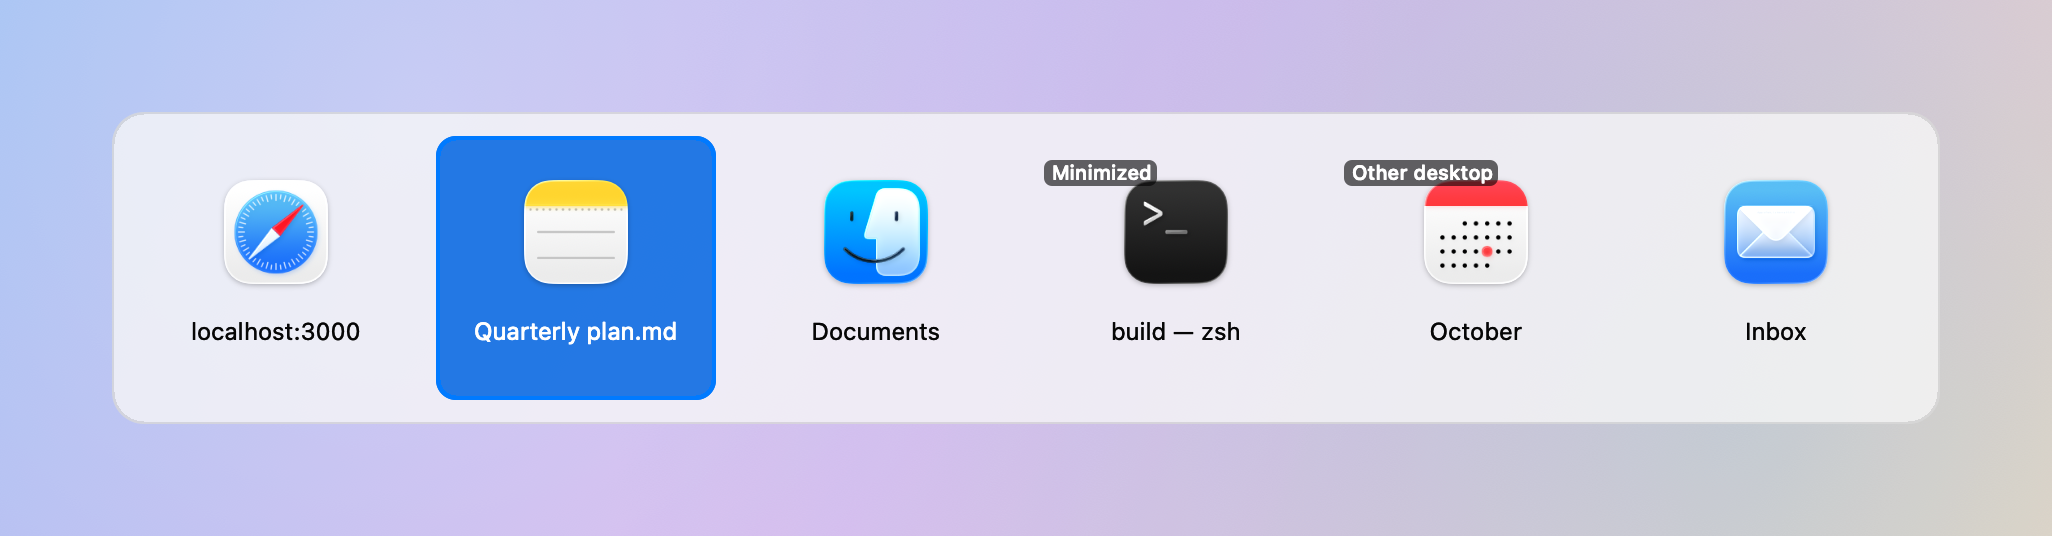
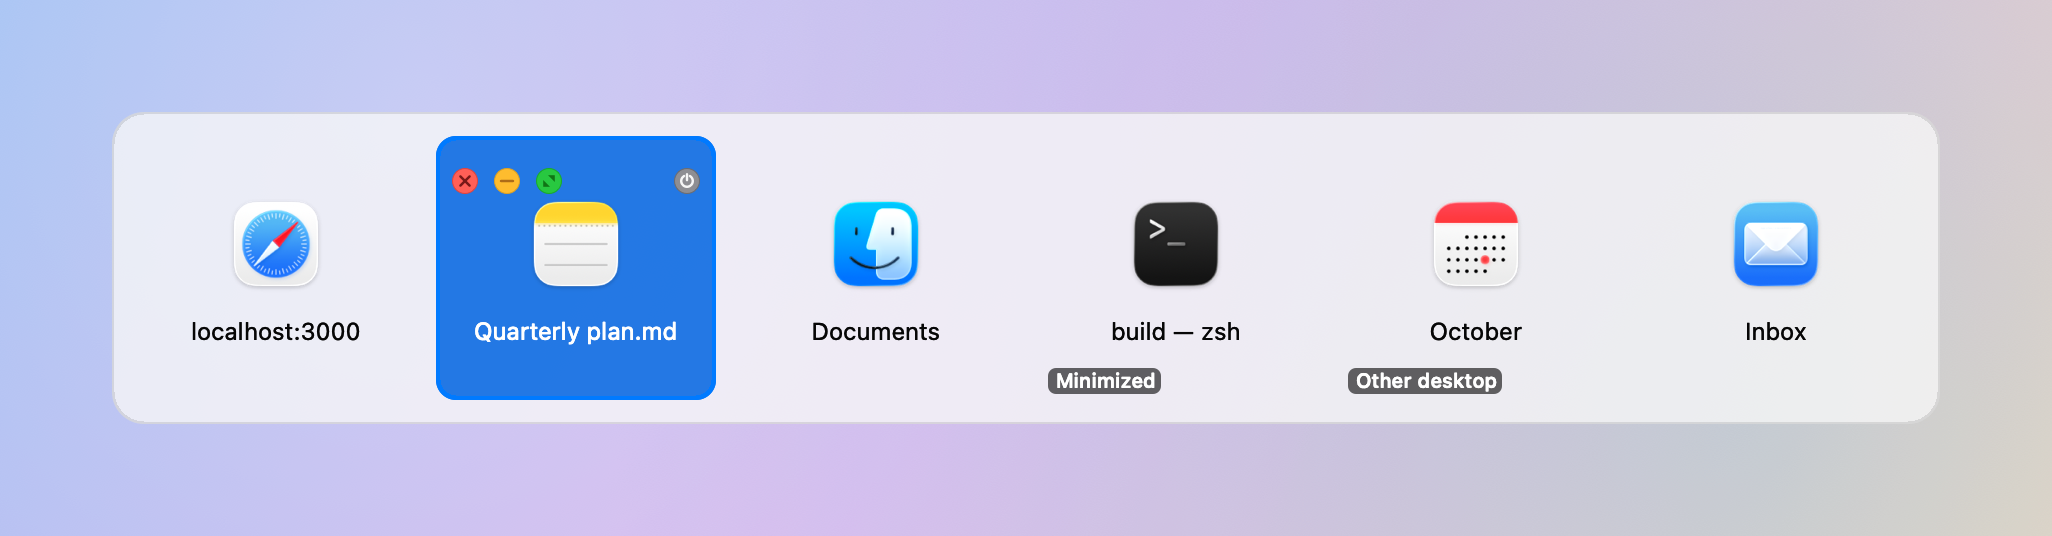
Hover controls look like native macOS traffic lights
Close, minimize and full screen are red, yellow and green circles at the
top-left of the tile, with glyphs on hover like a real window. Quit app
is a separate gray power button at the top-right. The Minimized and
Other desktop tags move to the bottom-left so they no longer cover the
controls. README images re-rendered.

diff --git a/Sources/Tabby/SwitcherItemViews.swift b/Sources/Tabby/SwitcherItemViews.swift
@@ -12,9 +12,12 @@ class SwitcherItemView: NSView {
     var onHover: (() -> Void)?
     var onClick: (() -> Void)?
     var onAction: ((ItemAction) -> Void)?
-    /// Row layouts centre the controls on the right edge; tiles put them in the top-right corner.
+    /// Row layouts centre the controls on the right edge; tiles put them over the picture.
     var controlsAreCompact: Bool { false }
-    private var controls: ItemControlsView?
+    /// Tiles: traffic lights sit at this area's top-left, quit at its top-right.
+    var controlsAnchor: NSRect { bounds }
+    private var lights: ControlClusterView?
+    private var quit: ControlClusterView?
 
     init(frame: NSRect, windowID: UInt32) {
         self.windowID = windowID
@@ -37,18 +40,30 @@ class SwitcherItemView: NSView {
     func setThumbnail(_ image: CGImage?) {}
     func restyleText() {}
 
-    func setControlsVisible(_ visible: Bool) {
-        guard visible else { controls?.isHidden = true; return }
-        if controls == nil {
-            let view = ItemControlsView { [weak self] in self?.onAction?($0) }
-            controls = view
-            addSubview(view)
+    /// `forceGlyphs` draws the hover glyphs without a pointer (README renders).
+    func setControlsVisible(_ visible: Bool, forceGlyphs: Bool = false) {
+        guard visible else { lights?.isHidden = true; quit?.isHidden = true; return }
+        if lights == nil {
+            let press: (ItemAction) -> Void = { [weak self] in self?.onAction?($0) }
+            let l = ControlClusterView(specs: ControlClusterView.trafficLights, glyphsOnHoverOnly: true, onAction: press)
+            let q = ControlClusterView(specs: [ControlClusterView.quitSpec], glyphsOnHoverOnly: false, onAction: press)
+            lights = l; quit = q
+            addSubview(l); addSubview(q)
         }
-        guard let controls else { return }
-        let size = controls.fittingSize
-        let y = controlsAreCompact ? (bounds.height - size.height) / 2 : bounds.height - size.height - 6
-        controls.frame = NSRect(x: bounds.width - size.width - 6, y: y, width: size.width, height: size.height)
-        controls.isHidden = false
+        guard let lights, let quit else { return }
+        let ls = lights.frame.size, qs = quit.frame.size
+        if controlsAreCompact {
+            let x = bounds.width - 8 - qs.width
+            quit.setFrameOrigin(NSPoint(x: x, y: (bounds.height - qs.height) / 2))
+            lights.setFrameOrigin(NSPoint(x: x - 10 - ls.width, y: (bounds.height - ls.height) / 2))
+        } else {
+            let a = controlsAnchor
+            lights.setFrameOrigin(NSPoint(x: a.minX + 8, y: a.maxY - 8 - ls.height))
+            quit.setFrameOrigin(NSPoint(x: a.maxX - 8 - qs.width, y: a.maxY - 8 - qs.height))
+        }
+        lights.setHovering(forceGlyphs)
+        lights.isHidden = false
+        quit.isHidden = false
     }
 
     // MARK: Mouse
@@ -118,6 +133,9 @@ final class TileItemView: SwitcherItemView {
     private let iconView = NSImageView()
     private let markerLabel: NSTextField?
     private let showsThumbnails: Bool
+    private var pictureFrame = NSRect.zero
+
+    override var controlsAnchor: NSRect { pictureFrame }
 
     init(frame: NSRect, window: WindowInfo, layout: Layout, thumbnailSize: ThumbnailSize, showWindowTitles: Bool,
          marker: String?, icon: NSImage?, thumbnail: CGImage?) {
@@ -139,6 +157,7 @@ final class TileItemView: SwitcherItemView {
             picture = NSRect(x: 0, y: labelH + 10, width: frame.width, height: frame.height - labelH - 18)
         }
 
+        pictureFrame = picture
         thumbView.frame = picture
         thumbView.imageScaling = .scaleProportionallyUpOrDown
         thumbView.wantsLayer = true
@@ -147,8 +166,8 @@ final class TileItemView: SwitcherItemView {
         addSubview(thumbView)
 
         // The app icon is the placeholder until a thumbnail lands, and the picture in App Icons.
-        let side = layout == .thumbnails ? min(64, picture.height * 0.6) : min(64, picture.height)
-        iconView.frame = NSRect(x: picture.midX - side / 2, y: picture.midY - side / 2, width: side, height: side)
+        let side = layout == .thumbnails ? min(64, picture.height * 0.6) : min(52, picture.height)   // leaves room for the hover controls above
+        iconView.frame = NSRect(x: picture.midX - side / 2, y: picture.midY - side / 2 - (layout == .thumbnails ? 0 : 6), width: side, height: side)
         iconView.image = icon
         iconView.imageScaling = .scaleProportionallyUpOrDown
         addSubview(iconView)
@@ -160,7 +179,7 @@ final class TileItemView: SwitcherItemView {
             markerLabel.layer?.backgroundColor = NSColor.black.withAlphaComponent(0.6).cgColor
             markerLabel.layer?.cornerRadius = 4
             let s = markerLabel.intrinsicContentSize
-            markerLabel.frame = NSRect(x: picture.minX + 4, y: picture.maxY - s.height - 4, width: s.width + 6, height: s.height)
+            markerLabel.frame = NSRect(x: layout == .thumbnails ? picture.minX + 4 : 6, y: layout == .thumbnails ? picture.minY + 4 : 3, width: s.width + 6, height: s.height)
             markerLabel.alignment = .center
             addSubview(markerLabel)
         }
@@ -192,59 +211,146 @@ final class TileItemView: SwitcherItemView {
     override func restyleText() { label.textColor = primaryTextColor }
 }
 
-/// Small row of window controls shown over the hovered item: close, minimize, full screen, quit app.
-final class ItemControlsView: NSView {
-    private static let buttons: [(ItemAction, String, String)] = [
-        (.close, "xmark.circle.fill", "Close window"),
-        (.minimize, "minus.circle.fill", "Minimize or restore window"),
-        (.toggleFullScreen, "arrow.up.left.and.arrow.down.right.circle.fill", "Toggle full screen"),
-        (.quitApp, "power.circle.fill", "Quit app"),
-    ]
-    private static let side: CGFloat = 20
-    private static let pad: CGFloat = 4
+/// A row of round window-control buttons drawn like the macOS title-bar "traffic lights".
+/// Glyphs show while the pointer is over the group (or always, for a single neutral button).
+/// Works on the first click inside the non-activating panel.
+final class ControlClusterView: NSView, NSViewToolTipOwner {
+    enum Glyph { case close, minimize, fullScreen, power }
+    struct Spec {
+        let action: ItemAction
+        let fill: NSColor
+        let border: NSColor
+        let glyph: Glyph
+        let glyphColor: NSColor
+        let tip: String
+    }
 
-    init(onAction: @escaping (ItemAction) -> Void) {
-        let n = CGFloat(Self.buttons.count)
-        let size = NSSize(width: n * Self.side + (n + 1) * Self.pad, height: Self.side + 2 * Self.pad)
-        super.init(frame: NSRect(origin: .zero, size: size))
-        wantsLayer = true
-        layer?.backgroundColor = NSColor.black.withAlphaComponent(0.6).cgColor
-        layer?.cornerRadius = size.height / 2
-        for (i, spec) in Self.buttons.enumerated() {
-            let button = ControlButton(action: spec.0, symbol: spec.1, tip: spec.2, onPress: onAction)
-            button.frame = NSRect(x: Self.pad + CGFloat(i) * (Self.side + Self.pad), y: Self.pad, width: Self.side, height: Self.side)
-            addSubview(button)
+    static let diameter: CGFloat = 13
+    static let spacing: CGFloat = 8
+
+    static let trafficLights: [Spec] = [
+        Spec(action: .close, fill: rgb(0xFF5F57), border: rgb(0xE0443E), glyph: .close,
+             glyphColor: rgb(0x4C0102, 0.75), tip: "Close window"),
+        Spec(action: .minimize, fill: rgb(0xFEBC2E), border: rgb(0xDEA123), glyph: .minimize,
+             glyphColor: rgb(0x985712, 0.8), tip: "Minimize or restore window"),
+        Spec(action: .toggleFullScreen, fill: rgb(0x28C840), border: rgb(0x1AAB29), glyph: .fullScreen,
+             glyphColor: rgb(0x0A5F0A, 0.8), tip: "Toggle full screen"),
+    ]
+    /// No native equivalent: neutral gray, kept apart from the traffic lights.
+    static let quitSpec = Spec(action: .quitApp, fill: rgb(0x8E8E93), border: rgb(0x6C6C70), glyph: .power,
+                               glyphColor: NSColor.white.withAlphaComponent(0.92), tip: "Quit app")
+
+    private static func rgb(_ hex: UInt32, _ alpha: CGFloat = 1) -> NSColor {
+        NSColor(srgbRed: CGFloat((hex >> 16) & 0xFF) / 255, green: CGFloat((hex >> 8) & 0xFF) / 255,
+                blue: CGFloat(hex & 0xFF) / 255, alpha: alpha)
+    }
+
+    private let specs: [Spec]
+    private let glyphsOnHoverOnly: Bool
+    private let onAction: (ItemAction) -> Void
+    private var hovering = false
+    private var pressed: Int?
+
+    init(specs: [Spec], glyphsOnHoverOnly: Bool, onAction: @escaping (ItemAction) -> Void) {
+        self.specs = specs
+        self.glyphsOnHoverOnly = glyphsOnHoverOnly
+        self.onAction = onAction
+        let n = CGFloat(specs.count)
+        super.init(frame: NSRect(x: 0, y: 0, width: n * Self.diameter + (n - 1) * Self.spacing, height: Self.diameter))
+        for i in specs.indices { addToolTip(circle(i), owner: self, userData: UnsafeMutableRawPointer(bitPattern: i + 1)) }
+        setAccessibilityElement(false)
+    }
+
+    required init?(coder: NSCoder) { fatalError("not used") }
+
+    private func circle(_ i: Int) -> NSRect {
+        NSRect(x: CGFloat(i) * (Self.diameter + Self.spacing), y: 0, width: Self.diameter, height: Self.diameter)
+    }
+
+    private func index(at point: NSPoint) -> Int? {
+        specs.indices.first { circle($0).insetBy(dx: -Self.spacing / 2, dy: -3).contains(point) }
+    }
+
+    func view(_ view: NSView, stringForToolTip tag: NSView.ToolTipTag, point: NSPoint, userData data: UnsafeMutableRawPointer?) -> String {
+        guard let raw = data.map({ Int(bitPattern: $0) }), raw >= 1, raw <= specs.count else { return "" }
+        return specs[raw - 1].tip
+    }
+
+    // MARK: Drawing
+
+    override func draw(_ dirtyRect: NSRect) {
+        for (i, spec) in specs.enumerated() {
+            let rect = circle(i)
+            let body = NSBezierPath(ovalIn: rect.insetBy(dx: 0.25, dy: 0.25))
+            (pressed == i ? spec.fill.blended(withFraction: 0.25, of: .black) ?? spec.fill : spec.fill).setFill()
+            body.fill()
+            spec.border.setStroke()
+            body.lineWidth = 0.5
+            body.stroke()
+            if hovering || !glyphsOnHoverOnly { drawGlyph(spec.glyph, in: rect, color: spec.glyphColor) }
         }
     }
 
-    required init?(coder: NSCoder) { fatalError("not used") }
-
-    override var fittingSize: NSSize { frame.size }
-}
-
-/// Borderless symbol button that works on the first click inside the non-activating panel.
-private final class ControlButton: NSButton {
-    private let onPress: (ItemAction) -> Void
-    private let itemAction: ItemAction
-
-    init(action: ItemAction, symbol: String, tip: String, onPress: @escaping (ItemAction) -> Void) {
-        itemAction = action
-        self.onPress = onPress
-        super.init(frame: .zero)
-        image = NSImage(systemSymbolName: symbol, accessibilityDescription: tip)
-        imagePosition = .imageOnly
-        imageScaling = .scaleProportionallyUpOrDown
-        isBordered = false
-        contentTintColor = .white
-        toolTip = tip
-        setAccessibilityLabel(tip)
-        target = self
-        self.action = #selector(pressed)
+    private func drawGlyph(_ glyph: Glyph, in rect: NSRect, color: NSColor) {
+        let c = NSPoint(x: rect.midX, y: rect.midY)
+        color.setStroke()
+        color.setFill()
+        let path = NSBezierPath()
+        path.lineWidth = 1.25
+        path.lineCapStyle = .round
+        switch glyph {
+        case .close:
+            let r: CGFloat = 2.3
+            path.move(to: NSPoint(x: c.x - r, y: c.y - r)); path.line(to: NSPoint(x: c.x + r, y: c.y + r))
+            path.move(to: NSPoint(x: c.x - r, y: c.y + r)); path.line(to: NSPoint(x: c.x + r, y: c.y - r))
+            path.stroke()
+        case .minimize:
+            path.move(to: NSPoint(x: c.x - 3, y: c.y)); path.line(to: NSPoint(x: c.x + 3, y: c.y))
+            path.stroke()
+        case .fullScreen:
+            // Two triangles pointing at opposite corners, as in macOS.
+            let t = NSBezierPath()
+            t.move(to: NSPoint(x: c.x + 2.9, y: c.y + 2.9)); t.line(to: NSPoint(x: c.x - 0.5, y: c.y + 2.9))
+            t.line(to: NSPoint(x: c.x + 2.9, y: c.y - 0.5)); t.close()
+            t.move(to: NSPoint(x: c.x - 2.9, y: c.y - 2.9)); t.line(to: NSPoint(x: c.x + 0.5, y: c.y - 2.9))
+            t.line(to: NSPoint(x: c.x - 2.9, y: c.y + 0.5)); t.close()
+            t.fill()
+        case .power:
+            path.lineWidth = 1.2
+            path.appendArc(withCenter: c, radius: 2.9, startAngle: 120, endAngle: 60, clockwise: false)
+            path.move(to: NSPoint(x: c.x, y: c.y + 0.4)); path.line(to: NSPoint(x: c.x, y: c.y + 3.4))
+            path.stroke()
+        }
     }
 
-    required init?(coder: NSCoder) { fatalError("not used") }
+    // MARK: Mouse
 
     override func acceptsFirstMouse(for event: NSEvent?) -> Bool { true }
 
-    @objc private func pressed() { onPress(itemAction) }
+    override func updateTrackingAreas() {
+        super.updateTrackingAreas()
+        trackingAreas.forEach(removeTrackingArea)
+        addTrackingArea(NSTrackingArea(rect: .zero, options: [.mouseEnteredAndExited, .activeAlways, .inVisibleRect],
+                                       owner: self, userInfo: nil))
+    }
+
+    func setHovering(_ on: Bool) { hovering = on; needsDisplay = true }
+
+    override func mouseEntered(with event: NSEvent) { hovering = true; needsDisplay = true }
+    override func mouseExited(with event: NSEvent) { hovering = false; needsDisplay = true }
+
+    override func mouseDown(with event: NSEvent) {
+        pressed = index(at: convert(event.locationInWindow, from: nil))
+        needsDisplay = true
+    }
+
+    override func mouseUp(with event: NSEvent) {
+        let hit = index(at: convert(event.locationInWindow, from: nil))
+        let was = pressed
+        pressed = nil
+        needsDisplay = true
+        if let hit, hit == was { onAction(specs[hit].action) }
+    }
+
+    override func viewDidHide() { hovering = false; pressed = nil }
 }

diff --git a/Sources/Tabby/DemoRenderer.swift b/Sources/Tabby/DemoRenderer.swift
@@ -73,11 +73,12 @@ enum DemoRenderer {
                 info.isMinimized = index == minimizedIndex
                 info.isOnOtherDesktop = index == otherDesktopIndex
                 let marker = info.isMinimized ? "Minimized" : (info.isOnOtherDesktop ? "Other desktop" : nil)
-                let thumb = layout == .thumbnails ? thumbnail(fake, size: ThumbnailSize.medium.box, dark: dark) : nil
+                let thumb = layout == .thumbnails ? thumbnail(fake, size: ThumbnailSize.medium.box, dark: dark, dots: index != selected) : nil
                 let view = TileItemView(frame: frame, window: info, layout: layout, thumbnailSize: .medium,
                                         showWindowTitles: true, marker: marker, icon: icon(fake.bundleID), thumbnail: thumb)
                 view.setSelected(index == selected)
                 panel.addSubview(view)
+                if index == selected { view.setControlsVisible(true, forceGlyphs: true) }
             }
 
             rep = NSBitmapImageRep(bitmapDataPlanes: nil, pixelsWide: Int(size.width * 2), pixelsHigh: Int(size.height * 2),
@@ -97,7 +98,7 @@ enum DemoRenderer {
     // MARK: Synthetic thumbnails
 
     /// A made-up window: title bar with traffic lights and a few coloured blocks. Rendered at 2x.
-    private static func thumbnail(_ fake: Fake, size: CGSize, dark: Bool) -> CGImage? {
+    private static func thumbnail(_ fake: Fake, size: CGSize, dark: Bool, dots: Bool = true) -> CGImage? {
         let scale: CGFloat = 2
         let w = Int(size.width * scale), h = Int(size.height * scale)
         guard let ctx = CGContext(data: nil, width: w, height: h, bitsPerComponent: 8, bytesPerRow: 0,
@@ -124,7 +125,8 @@ enum DemoRenderer {
         ctx.setFillColor(body); ctx.fill(CGRect(x: 0, y: 0, width: W, height: H))
         let barH: CGFloat = 20
         ctx.setFillColor(bar); ctx.fill(CGRect(x: 0, y: H - barH, width: W, height: barH))
-        for (i, c) in [NSColor.systemRed, .systemYellow, .systemGreen].enumerated() {
+        // The selected tile shows the real hover controls in the same spot instead.
+        for (i, c) in (dots ? [NSColor.systemRed, .systemYellow, .systemGreen] : []).enumerated() {
             ctx.setFillColor(c.cgColor)
             ctx.fillEllipse(in: CGRect(x: 8 + CGFloat(i) * 12, y: H - barH / 2 - 4, width: 8, height: 8))
         }

diff --git a/readme/feature-status.md b/readme/feature-status.md
@@ -35,5 +35,5 @@
 | Thumbnail cache | dev | Pure LRU with a 64 MB byte budget, eviction on window close, and a trust rule: a capture taken while off-screen never replaces a cached image. Unit tested. | None | Entries cost width x height x 4 bytes. | Sources/TabbyCore/ThumbnailCache.swift |
 | Layouts and auto size | dev | Titles, App Icons and Thumbnails layouts. App Icons can show the window title (two lines) under each icon; the tile grows to fit. Panel fits its content, wraps balanced rows, caps at 90% of the pointer screen and scrolls rows around the selection. Pure math, unit tested. | None | Not yet hand-tested on multiple screens. | Sources/TabbyCore/PanelGeometry.swift |
 | Mouse selection | dev | Click an item to focus it and close the switcher (works while Option is held). Click outside the panel cancels. Hovering selects the item once the pointer really moves. | CoreGraphics, AppKit | Not yet hand-tested. Only left and right buttons are watched. | Sources/Tabby/SwitcherEngine.swift, Sources/Tabby/SwitcherPanel.swift |
-| Hover controls | dev | Close, minimize or restore, full screen, quit app on the hovered item via Accessibility. The list updates in place and the selection moves to the item that took its place. Hidden for windows without an AX element. | Accessibility | Not yet hand-tested. Close and quit are optimistic: the item leaves the list even if the app shows a save prompt. Full screen leaves the item in place. | Sources/Tabby/WindowControls.swift, Sources/TabbyCore/SelectionIndex.swift |
+| Hover controls | dev | Close, minimize or restore, full screen on the hovered item via Accessibility, drawn as macOS-style traffic lights at the top-left (glyphs on hover); gray quit-app button at the top-right. The list updates in place and the selection moves to the item that took its place. Hidden for windows without an AX element. | Accessibility | Not yet hand-tested. Close and quit are optimistic: the item leaves the list even if the app shows a save prompt. Full screen leaves the item in place. | Sources/Tabby/WindowControls.swift, Sources/TabbyCore/SelectionIndex.swift |
 | Live preview | dev | When enabled, outlines the selected window's on-screen frame and lightly dims other screens. Click-through overlay below the panel; the real window is never raised. No outline for minimized, other-desktop or hidden windows. | AppKit | Not yet hand-tested. Setting changes apply at the next selection. Single-screen setups get outline only. | Sources/Tabby/PreviewOverlay.swift, Sources/TabbyCore/PreviewRules.swift |
